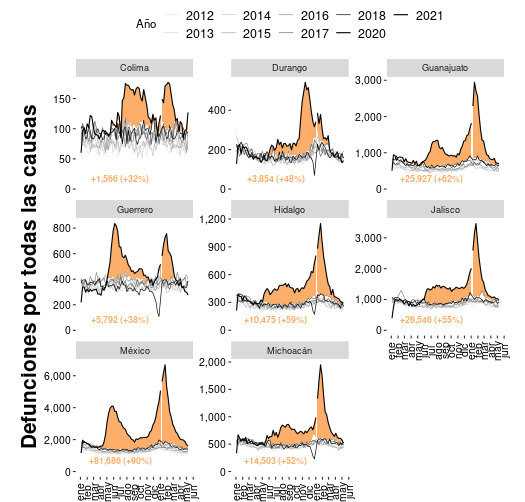
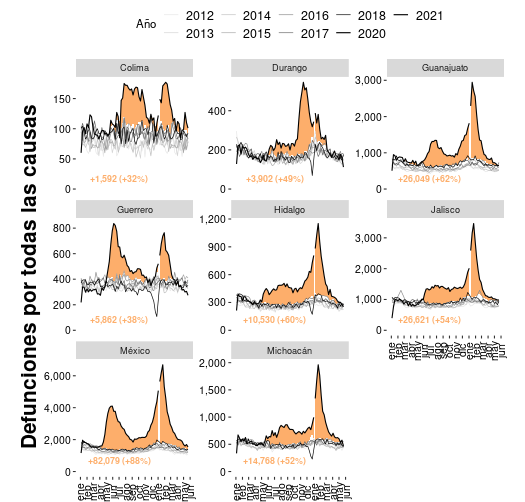
Exceso de mortalidad 2021-07-01

diff --git a/content/muertes/exceso_mortalidad_nacional.md b/content/muertes/exceso_mortalidad_nacional.md
@@ -11,8 +11,8 @@ son diagnosticadas. En
 <a href="https://www.economist.com/graphic-detail/2020/07/15/tracking-covid-19-excess-deaths-across-countries">países</a>
 se ha observado que la pandemia provoca un <i>exceso de mortalidad</i>.</p>
 
-<p>En México, desde el inicio de la pandemia y hasta el 8 de mayo de 2021
-se han registrado <b>63% más defunciones</b> que en el mismo periodo de años
+<p>En México, desde el inicio de la pandemia y hasta el 22 de mayo de 2021
+se han registrado <b>62% más defunciones</b> que en el mismo periodo de años
 previos.
 Estos números son preliminares ya que el catálogo nacional de defunciones
 tarda dos años en finalizarse.</p>

diff --git a/content/muertes/exceso_mortalidad_estados2.md b/content/muertes/exceso_mortalidad_estados2.md
@@ -8,7 +8,7 @@ medir el costo humano en cada entidad.</p>
 
 <p>Estas gráficas muestran el
 <a href="#exceso_mortalidad_nacional"><i>exceso de mortalidad</i></a>
-hasta el 8 de mayo de 2021 para 8 de las 32 entidades federativas del país.
+hasta el 22 de mayo de 2021 para 8 de las 32 entidades federativas del país.
 La región con color indica las semanas con <i>exceso de mortalidad</i>.
 Se indica el número absoluto de exceso de mortalidad para canda entidad y el
 incremento porcentual. Las entidades federativas están organizadas

diff --git a/content/muertes/exceso_mortalidad_estados3.md b/content/muertes/exceso_mortalidad_estados3.md
@@ -8,7 +8,7 @@ medir el costo humano en cada entidad.</p>
 
 <p>Estas gráficas muestran el
 <a href="#exceso_mortalidad_nacional"><i>exceso de mortalidad</i></a>
-hasta el 8 de mayo de 2021 para 8 de las 32 entidades federativas del país.
+hasta el 22 de mayo de 2021 para 8 de las 32 entidades federativas del país.
 La región con color indica las semanas con <i>exceso de mortalidad</i>.
 Se indica el número absoluto de exceso de mortalidad para canda entidad y el
 incremento porcentual. Las entidades federativas están organizadas

diff --git a/content/muertes/exceso_mortalidad_estados4.md b/content/muertes/exceso_mortalidad_estados4.md
@@ -8,7 +8,7 @@ medir el costo humano en cada entidad.</p>
 
 <p>Estas gráficas muestran el
 <a href="#exceso_mortalidad_nacional"><i>exceso de mortalidad</i></a>
-hasta el 8 de mayo de 2021 para 8 de las 32 entidades federativas del país.
+hasta el 22 de mayo de 2021 para 8 de las 32 entidades federativas del país.
 La región con color indica las semanas con <i>exceso de mortalidad</i>.
 Se indica el número absoluto de exceso de mortalidad para canda entidad y el
 incremento porcentual. Las entidades federativas están organizadas

diff --git a/content/muertes/exceso_mortalidad_estados1.md b/content/muertes/exceso_mortalidad_estados1.md
@@ -8,7 +8,7 @@ medir el costo humano en cada entidad.</p>
 
 <p>Estas gráficas muestran el
 <a href="#exceso_mortalidad_nacional"><i>exceso de mortalidad</i></a>
-hasta el 8 de mayo para 8 de las 32 entidades federativas del país.
+hasta el 22 de mayo para 8 de las 32 entidades federativas del país.
 La región con color indica las semanas con <i>exceso de mortalidad</i>.
 Se indica el número absoluto de exceso de mortalidad para canda entidad y el
 incremento porcentual. Las entidades federativas están organizadas
